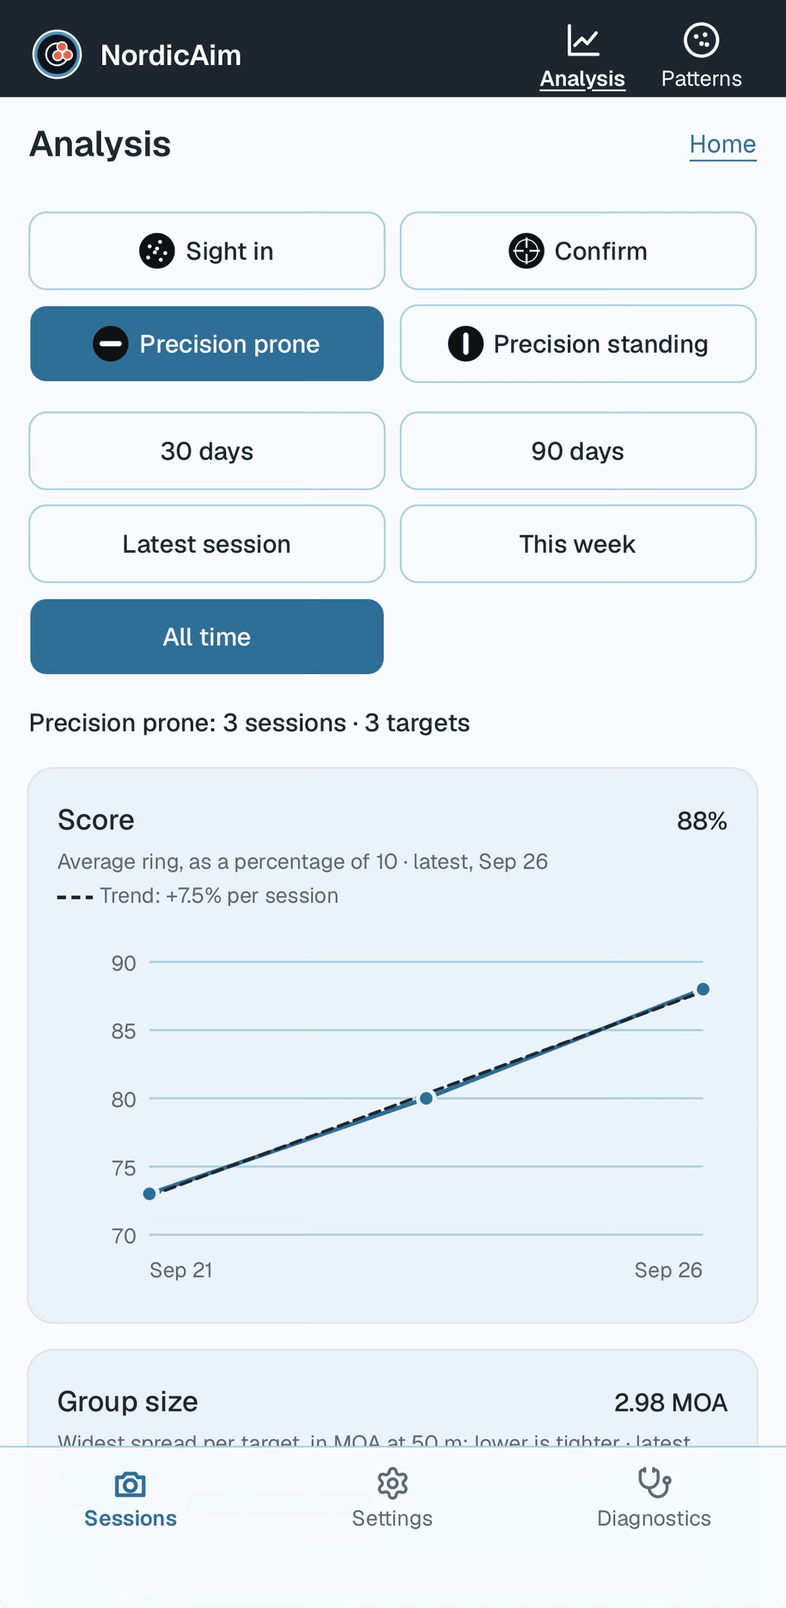
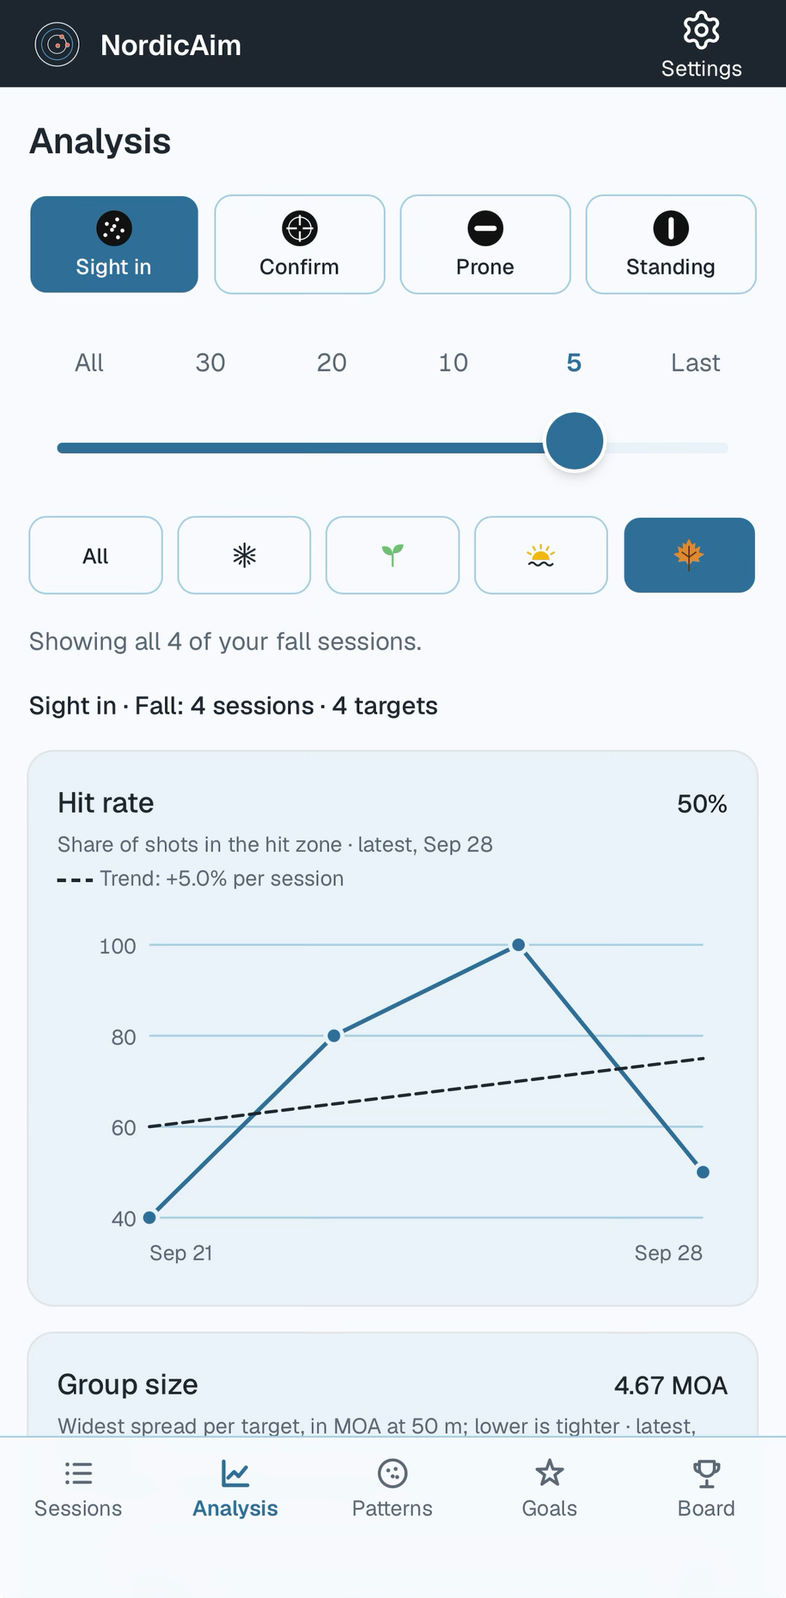
Docs: Analysis screenshot from the owner's iPhone, with the session slider and the Showing sentence
Claude-Session: https://claude.ai/code/session_011nJupxVuQvQUQUo39E3m88

diff --git a/docs/guide/README.md b/docs/guide/README.md
@@ -185,7 +185,7 @@ Tap a dot to see which target it came from: a list opens under the drawing with 
 Tap **Analysis** on the bottom bar. It uses the same kinds of target and the same ranges as Patterns, but where Patterns shows *where* your shots land, Analysis shows *how your numbers move*, with **one point per session**. Tap a point to read its value; under the chart you can then open that session's target, and **Back to Analysis** brings you back to the same view.
 
 <p align="center">
-  <img src="../assets/screens/analysis.png" width="300" alt="The Analysis screen with Precision prone and All time chosen, and the Score chart below">
+  <img src="../assets/screens/analysis.png" width="300" alt="The Analysis screen on Sight in with the last 5 sessions and Fall chosen, the sentence Showing all 4 of your fall sessions, and the Hit rate chart with its dashed trend line">
   &nbsp;
   <img src="../assets/screens/analysis-trends.png" width="300" alt="The Analysis screen's Score and Group size charts, each with a dashed trend line">
 </p>
